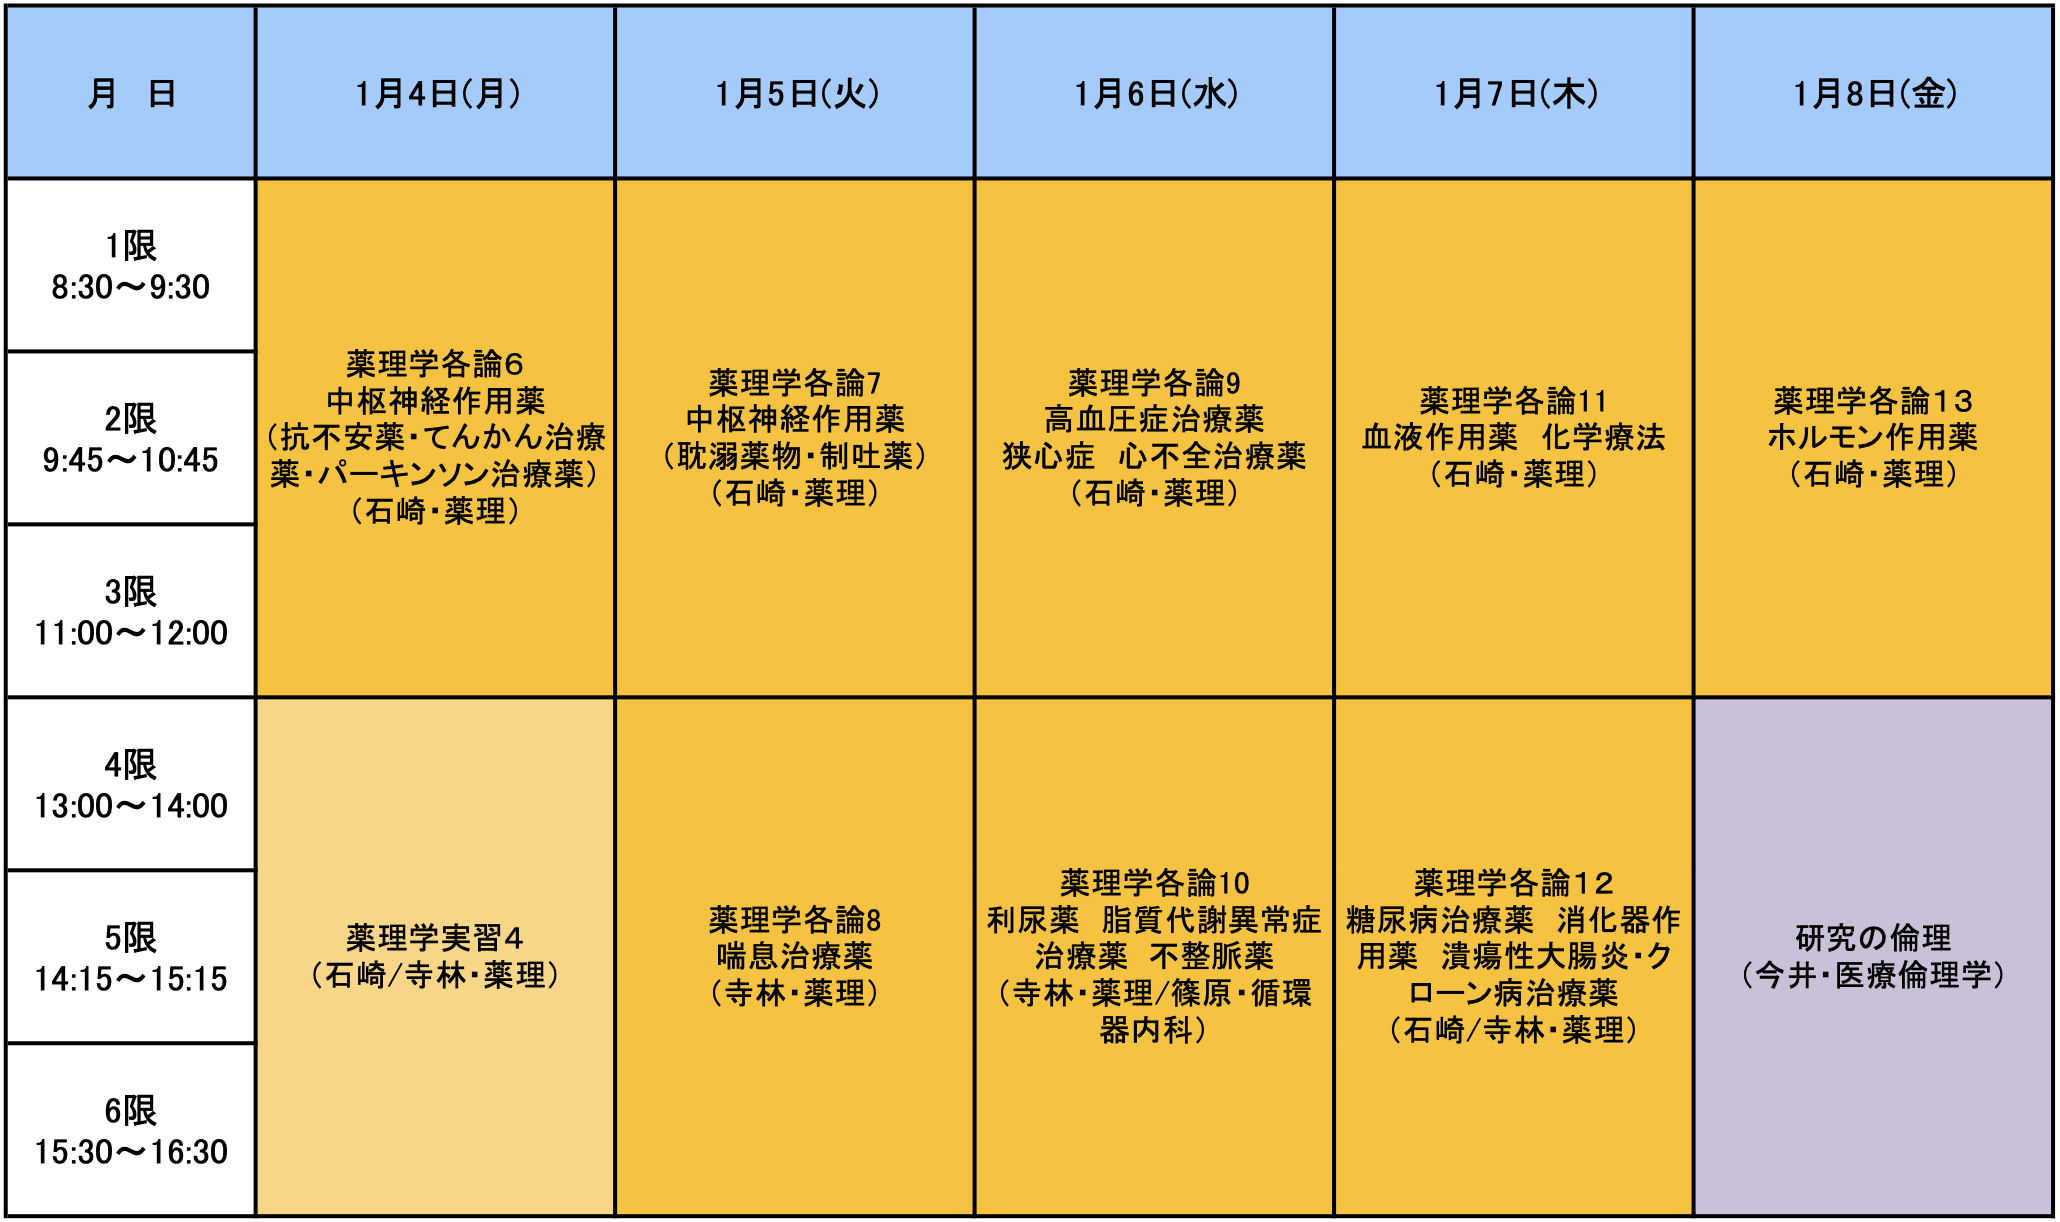
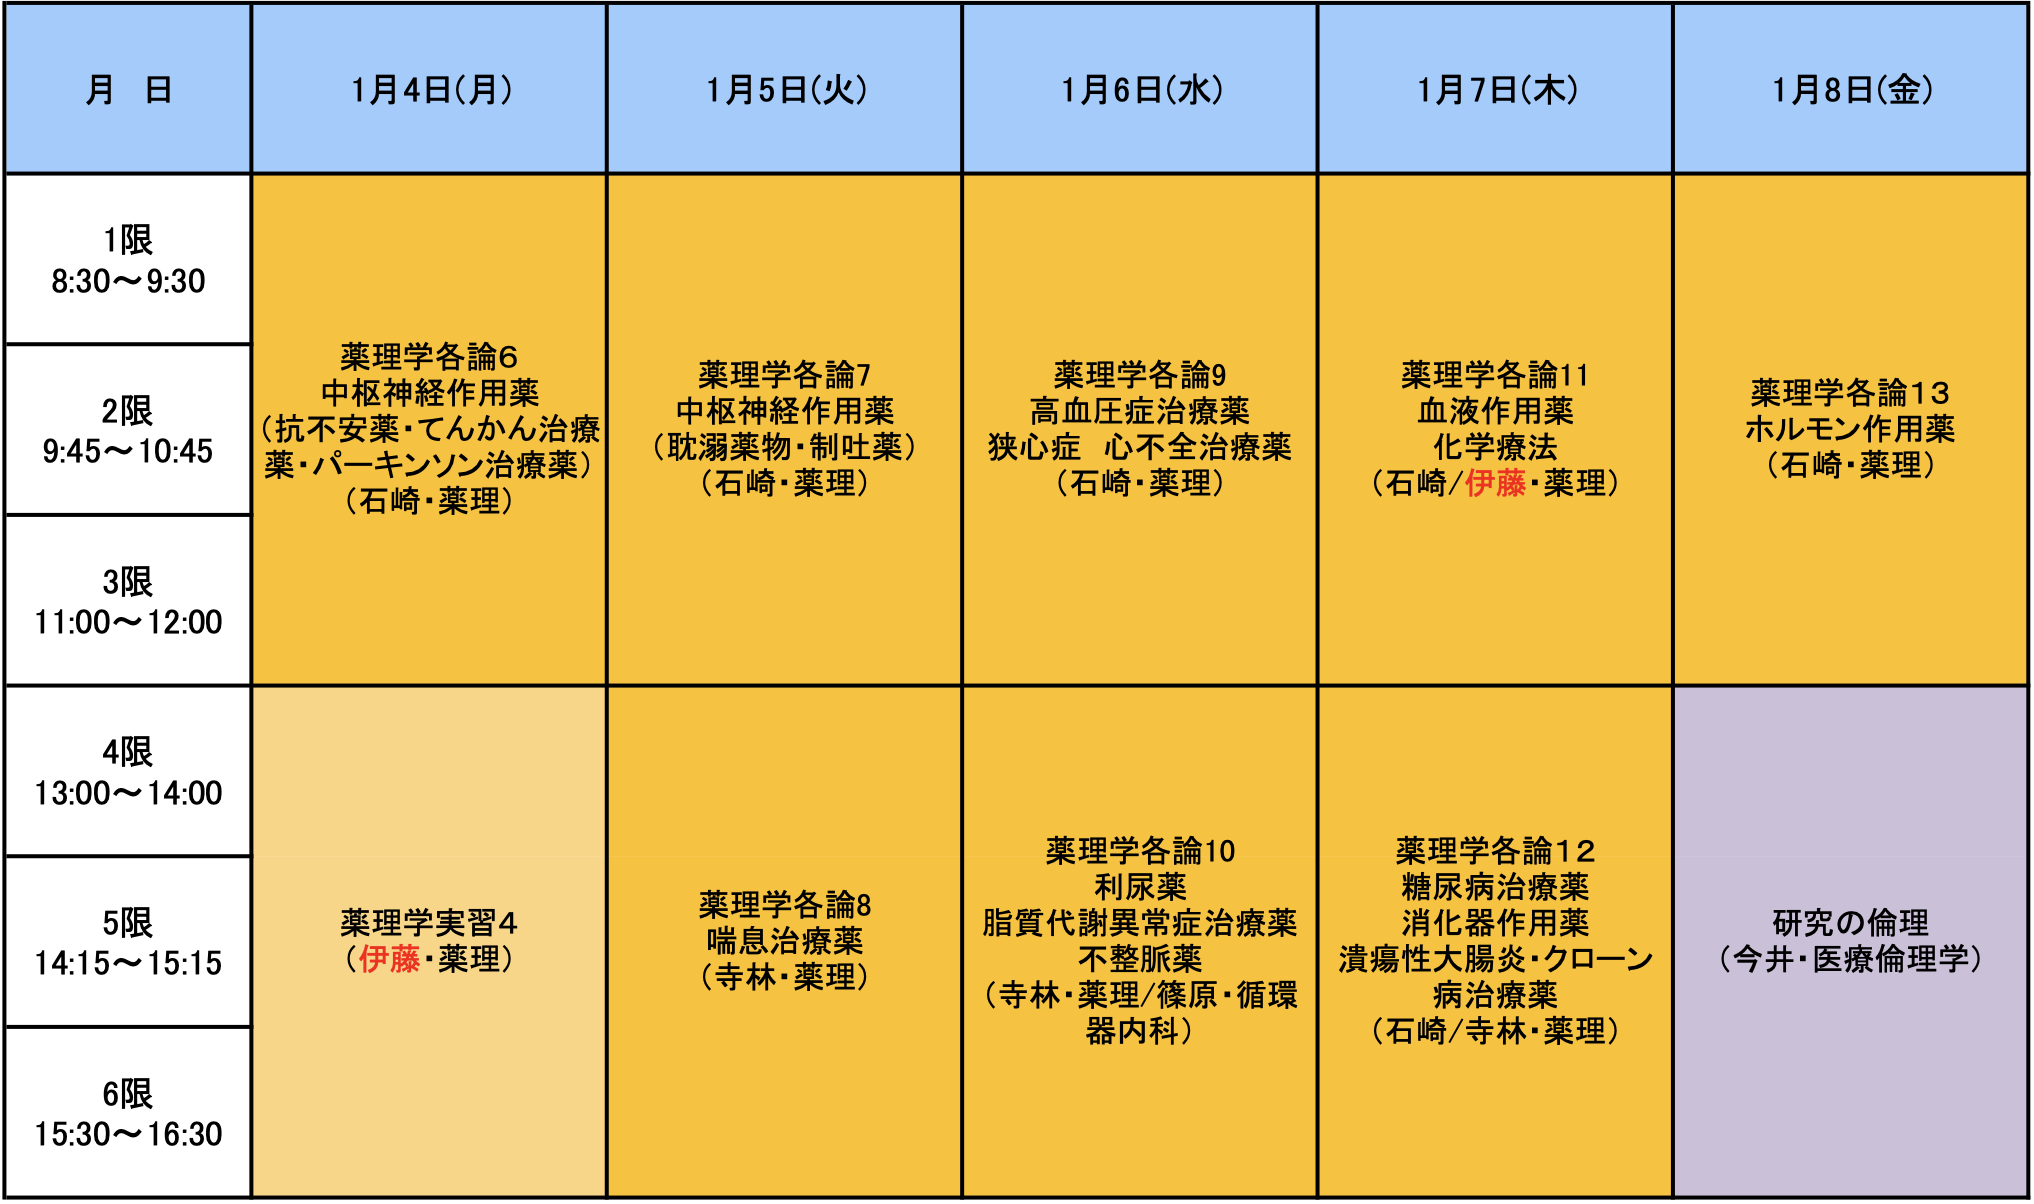
時間割変更

diff --git a/25/index.html b/25/index.html
@@ -30,7 +30,7 @@ table th, table td {
         </h1>
     </header>
     <main class="page-content">
-    <h3 class="top-object">今週の時間割（11月5日更新）</h3>
+    <h3 class="top-object">今週の時間割（11月6日更新）</h3>
     <div id="nav">
         <button id="prev">&lt;前の週</button>
         <button id="next">次の週&gt;</button>
@@ -176,7 +176,7 @@ table th, table td {
 
 
     <script>
-        const IMG_VERSION = "2026-11-05";
+        const IMG_VERSION = "2026-11-06";
         const today = new Date();
         let offset = 0;
 
